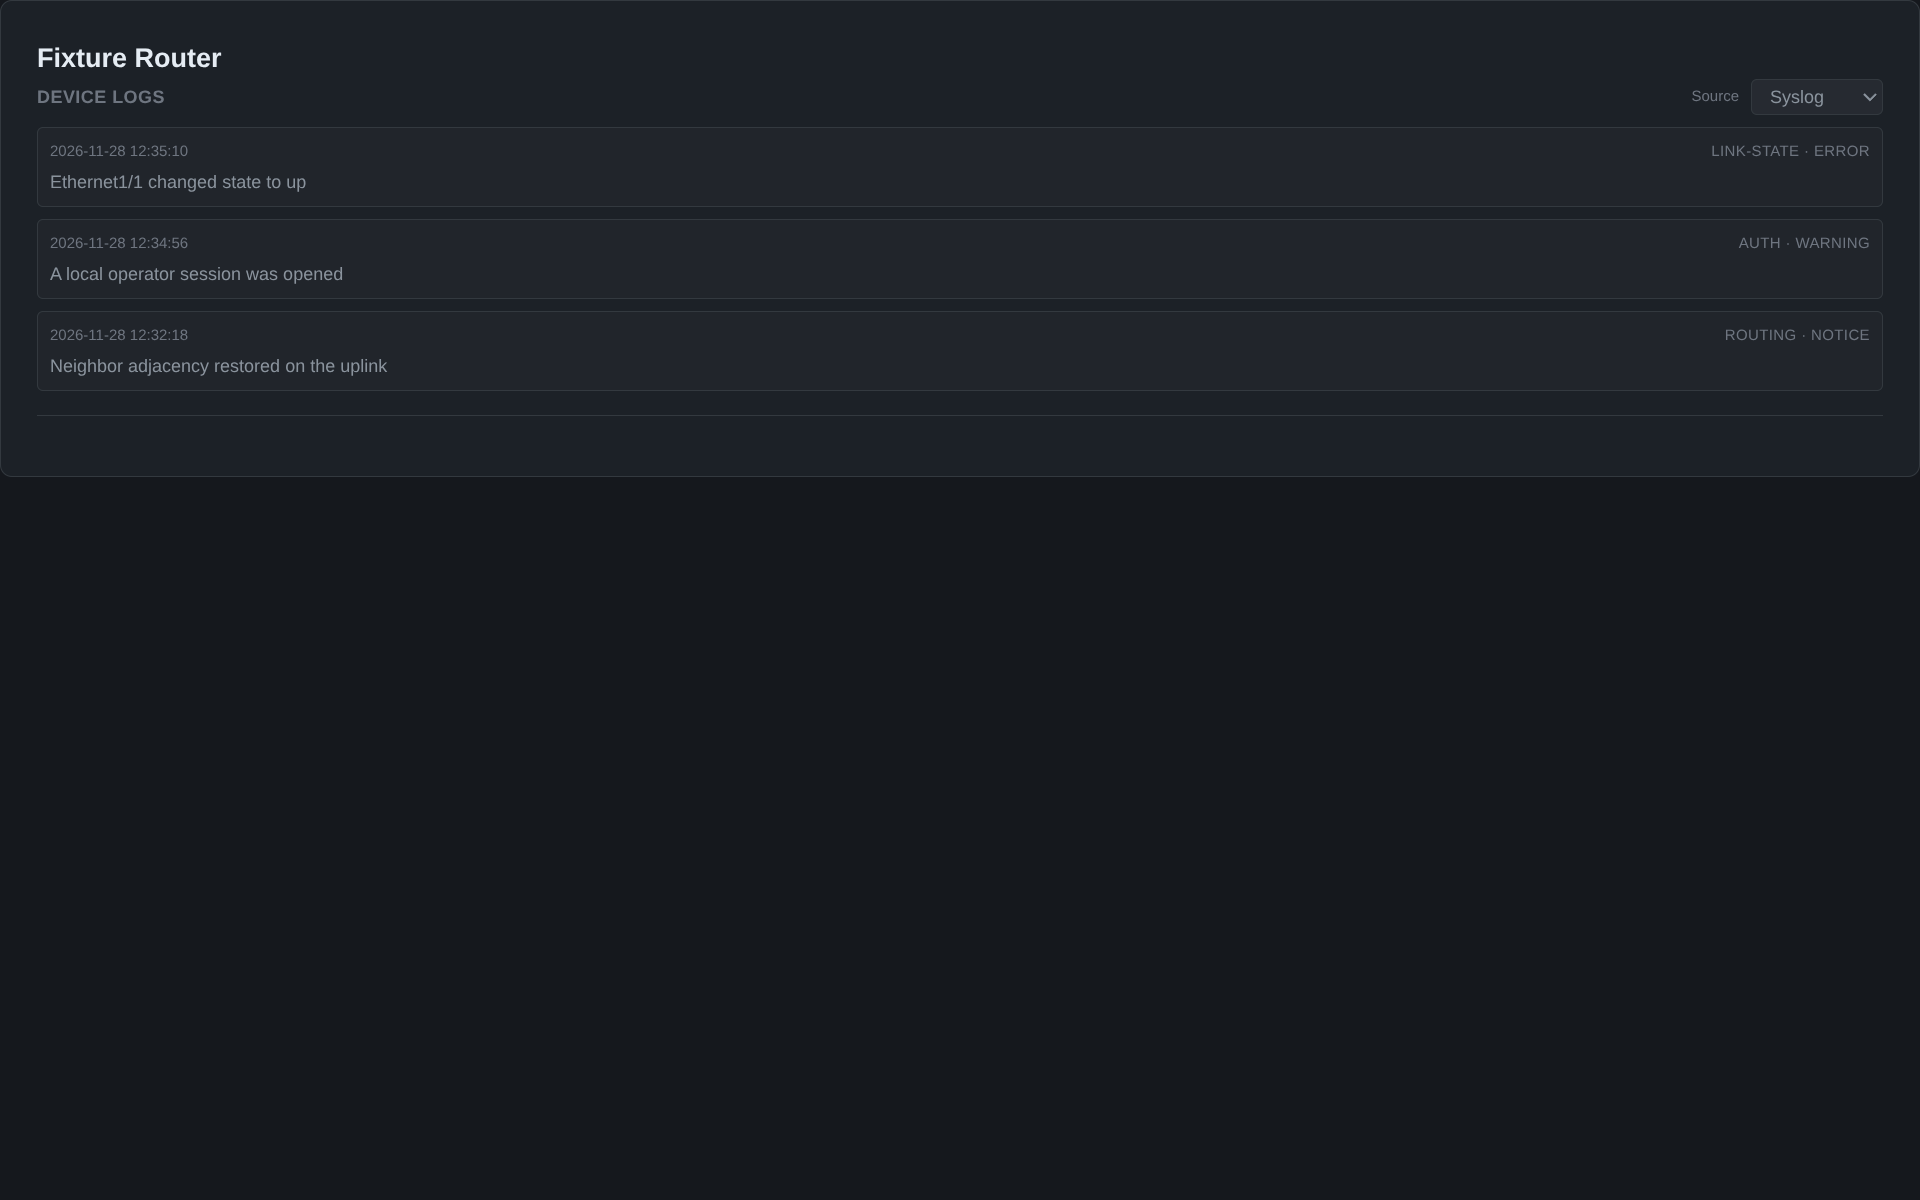
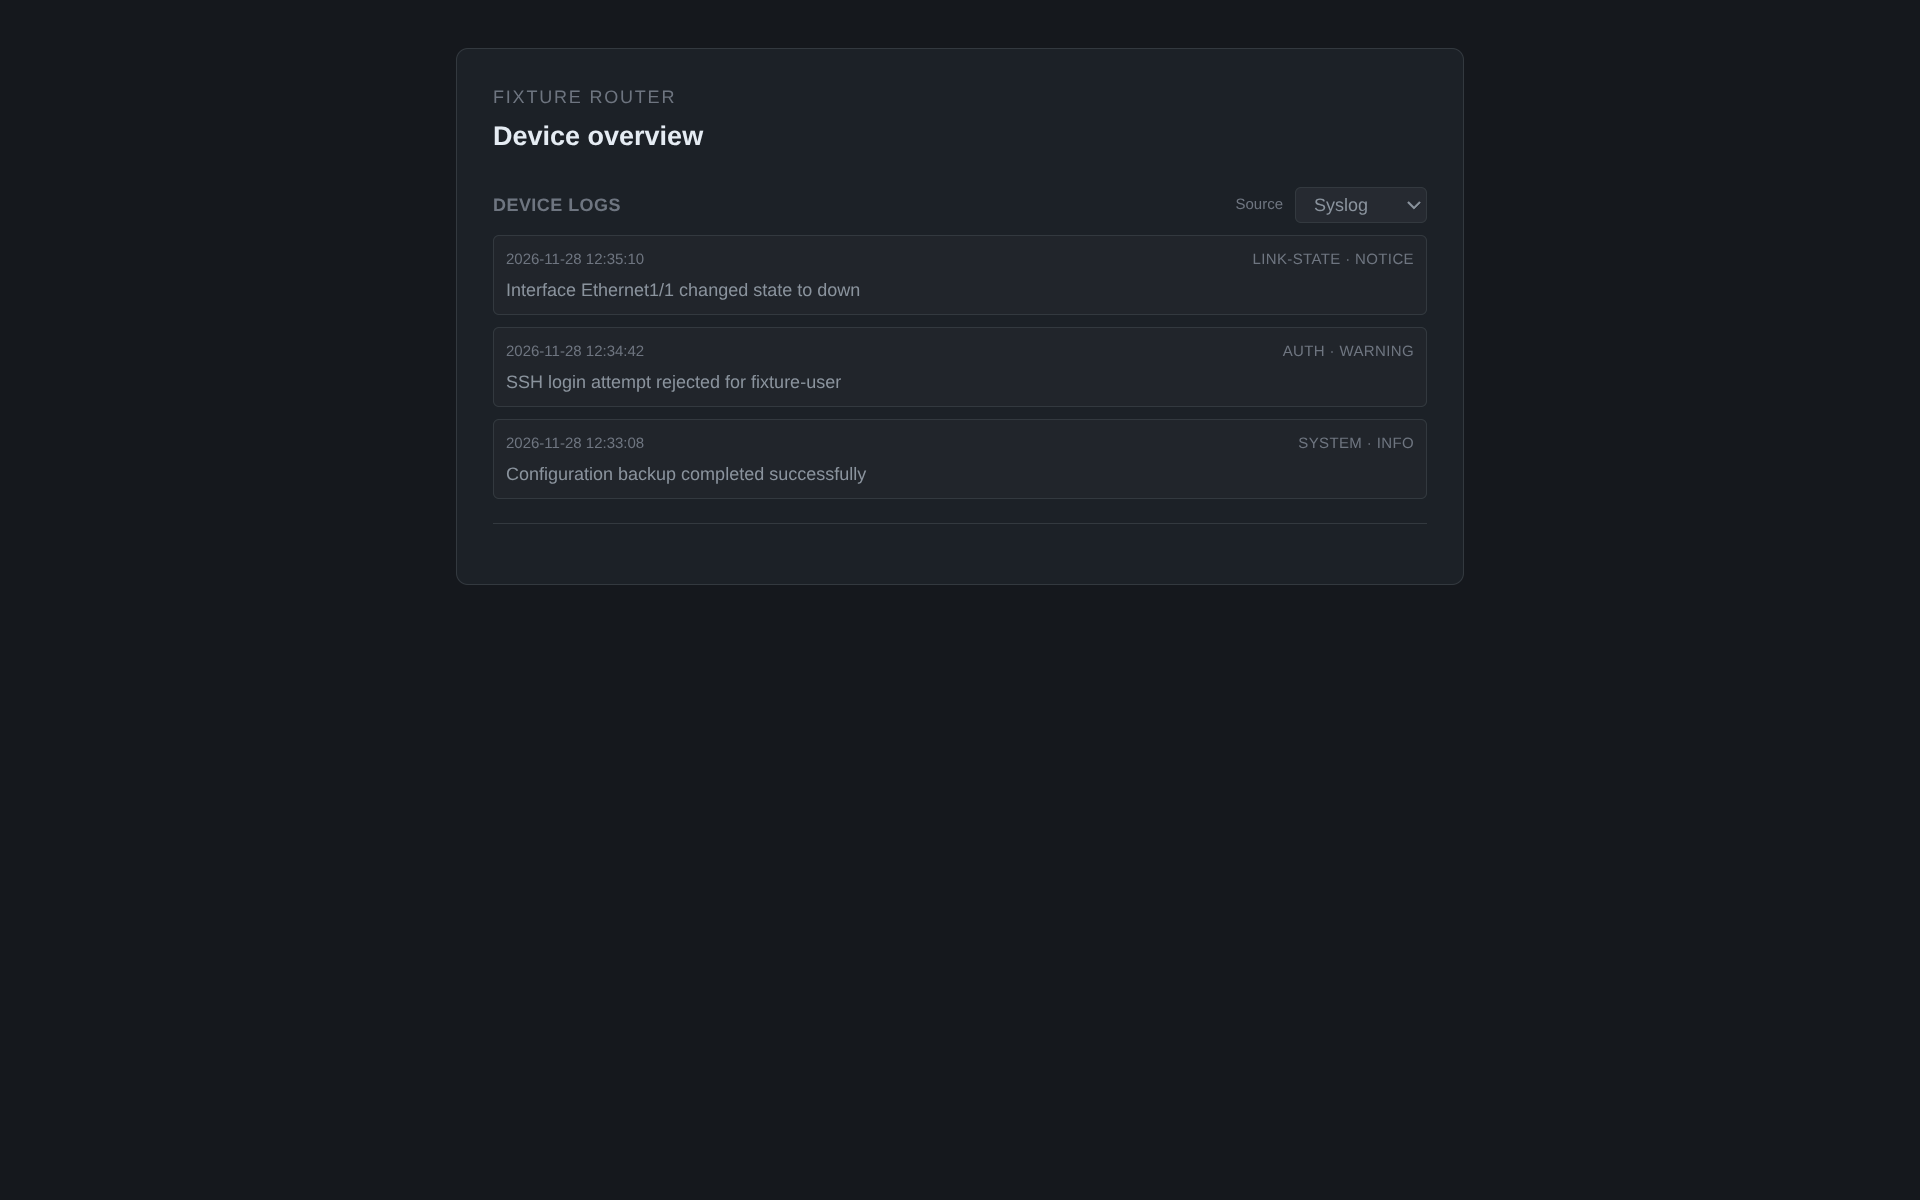
fix: normalize LibreNMS log severities

diff --git a/frontend/src/components/Sidebar/DeviceLogsPanel.tsx b/frontend/src/components/Sidebar/DeviceLogsPanel.tsx
@@ -16,19 +16,6 @@ export function DeviceLogMessage({ message }: { message: string }) {
   return <span className="whitespace-pre-wrap break-words">{message}</span>
 }
 
-export function formatSeverity(severity?: string | null): string | null {
-  if (!severity) return null
-  const labels: Record<string, string> = {
-    '1': 'Ok',
-    '2': 'Info',
-    '3': 'Notice',
-    '4': 'Warning',
-    '5': 'Error',
-    '6': 'Critical',
-  }
-  return labels[severity] ?? severity
-}
-
 export function selectDeviceLogKind(
   value: string,
   onChange: (kind: DeviceLogKind) => void,
@@ -74,7 +61,7 @@ export function DeviceLogsEntries({
           <div className="mb-1 flex flex-wrap items-center justify-between gap-x-2 text-[10px] text-text-muted">
             <span>{entry.timestamp}</span>
             <span className="uppercase tracking-wide">
-              {[entry.type, formatSeverity(entry.severity)]
+              {[entry.type, entry.severity]
                 .filter(Boolean)
                 .join(' · ') || 'Log entry'}
             </span>
@@ -118,6 +105,8 @@ export default function DeviceLogsPanel({ deviceId }: DeviceLogsPanelProps) {
   const [error, setError] = useState(false)
 
   useEffect(() => {
+    setEntries([])
+    setError(false)
     if (!expanded) return
 
     const controller = new AbortController()

diff --git a/frontend/src/components/Sidebar/DeviceLogsPanel.test.tsx b/frontend/src/components/Sidebar/DeviceLogsPanel.test.tsx
@@ -6,7 +6,6 @@ import {
   DeviceLogMessage,
   DeviceLogSourceSelector,
   DeviceLogsEntries,
-  formatSeverity,
   requestDeviceLogs,
   selectDeviceLogKind,
 } from './DeviceLogsPanel'
@@ -18,7 +17,7 @@ vi.mock('../../api/endpoints', () => ({
 const entry: DeviceLogEntry = {
   timestamp: '2026-11-28 12:34:56',
   type: 'syslog',
-  severity: '5',
+  severity: 'Error',
   message: 'Interface state changed',
 }
 
@@ -66,12 +65,6 @@ describe('DeviceLogsPanel', () => {
       50,
       expect.any(AbortSignal),
     )
-  })
-
-  it('maps LibreNMS severities to labels', () => {
-    expect(['1', '2', '3', '4', '5', '6'].map(formatSeverity)).toEqual([
-      'Ok', 'Info', 'Notice', 'Warning', 'Error', 'Critical',
-    ])
   })
 
   it('renders device supplied markup as escaped text', () => {

diff --git a/backend/tests/test_device_logs.py b/backend/tests/test_device_logs.py
@@ -62,35 +62,38 @@ async def _unknown_device(_device_id: str):
 
 
 async def test_librenms_client_normalizes_each_log_kind(monkeypatch):
+    event_labels = ["Unknown", "Ok", "Info", "Notice", "Warning", "Error", "Critical"]
+    syslog_labels = ["Emergency", "Alert", "Critical", "Error", "Warning", "Notice", "Info", "Debug"]
+    alert_labels = ["Ok", "Error", "Info", "Warning", "Notice", "Warning", "Ok"]
+    alert_states = ["clear", "alert", "ack", "worse", "better", "changed", "recovered"]
     fixtures = {
-        "eventlog": {
-            "datetime": "2026-11-28 12:34:56",
-            "type": "interface",
-            "severity": "3",
-            "message": "Ethernet1/1 changed state to down",
-        },
-        "syslog": {
-            "timestamp": "2026-11-28 12:35:10",
-            "program": "LINK-STATE",
-            "msg": "Ethernet1/1 changed state to up",
-            "level": "5",
-            "priority": "189",
-            "facility": "local7",
-            "tag": "router",
-        },
-        "alertlog": {
-            "time_logged": "2026-11-28 12:36:22",
-            "state": 1,
-            "details": "CPU threshold exceeded",
-            "rule_id": 42,
-        },
+        "eventlog": [
+            {"datetime": f"2026-11-28 12:34:{index:02}", "type": "interface", "severity": index, "message": "Ethernet1/1 changed state"}
+            for index in range(7)
+        ],
+        "syslog": [
+            {"timestamp": "2026-11-28 12:35:10", "program": "LINK-STATE", "msg": "Ethernet1/1 changed state", "level": index, "priority": 189}
+            for index in range(8)
+        ] + [
+            {"timestamp": "2026-11-28 12:35:11", "program": "LINK-STATE", "msg": "Link notice", "level": label}
+            for label in ("EMERG", "Alert", "crit", "ERR", "warn", "WARNING", "Notice", "info", "Debug")
+        ] + [
+            {"timestamp": "2026-11-28 12:35:12", "program": "LINK-STATE", "msg": "Fallback priority", "priority": 189}
+        ],
+        "alertlog": [
+            {"time_logged": f"2026-11-28 12:36:{state:02}", "state": state, "details": [], "rule_id": 42}
+            for state in range(7)
+        ] + [
+            {"time_logged": f"2026-11-28 12:37:{state:02}", "state": state, "details": {"rule": [{"name": "High CPU", "entities": ["cpu0", "cpu1"]}]}, "rule_id": 42}
+            for state in range(7)
+        ],
     }
     requests: list[httpx.Request] = []
 
     def handler(request: httpx.Request) -> httpx.Response:
         requests.append(request)
         kind = request.url.path.split("/")[4]
-        return httpx.Response(200, json={"status": "ok", "logs": [fixtures[kind]]})
+        return httpx.Response(200, json={"status": "ok", "logs": fixtures[kind]})
 
     _mock_librenms(monkeypatch, handler)
     async with LibreNMSClient() as client:
@@ -99,24 +102,19 @@ async def test_librenms_client_normalizes_each_log_kind(monkeypatch):
             for kind in fixtures
         }
 
-    assert normalized["eventlog"][0].model_dump() == {
-        "timestamp": "2026-11-28 12:34:56",
-        "type": "interface",
-        "severity": "3",
-        "message": "Ethernet1/1 changed state to down",
-    }
-    assert normalized["syslog"][0].model_dump() == {
-        "timestamp": "2026-11-28 12:35:10",
-        "type": "LINK-STATE",
-        "severity": "5",
-        "message": "Ethernet1/1 changed state to up",
-    }
-    assert normalized["alertlog"][0].model_dump() == {
-        "timestamp": "2026-11-28 12:36:22",
-        "type": None,
-        "severity": "1",
-        "message": "Rule 42: alert - CPU threshold exceeded",
-    }
+    assert [entry.severity for entry in normalized["eventlog"]] == event_labels
+    assert [entry.severity for entry in normalized["syslog"]] == syslog_labels + [
+        "Emergency", "Alert", "Critical", "Error", "Warning", "Warning", "Notice", "Info", "Debug", "Notice"
+    ]
+    assert [entry.severity for entry in normalized["alertlog"]] == alert_labels * 2
+    assert [entry.message for entry in normalized["alertlog"][:7]] == [
+        f"Rule 42: {state}" for state in alert_states
+    ]
+    assert [entry.message for entry in normalized["alertlog"][7:]] == [
+        f"Rule 42: {state} - High CPU (2 entities)" for state in alert_states
+    ]
+    assert normalized["eventlog"][0].timestamp == "2026-11-28 12:34:00"
+    assert normalized["syslog"][0].type == "LINK-STATE"
     assert len(requests) == 3
     assert all(request.method == "GET" for request in requests)
 
@@ -164,7 +162,7 @@ async def test_device_logs_use_descending_order_and_cache_results(
         {
             "timestamp": "2026-11-28 12:34:56",
             "type": "LINK-STATE",
-            "severity": "5",
+            "severity": "Notice",
             "message": "Ethernet1/1 changed state to down",
         }
     ]
@@ -284,6 +282,13 @@ async def test_device_logs_reject_invalid_kind(wired_redis_cache):
         )
 
     assert response.status_code == 422
+
+
+async def test_device_logs_require_authentication(wired_redis_cache):
+    async with AsyncClient(transport=ASGITransport(app=_app()), base_url="http://test") as client:
+        response = await client.get("/api/device/fixture-router/logs")
+
+    assert response.status_code == 401
 
 
 async def test_device_logs_return_404_for_unknown_device(wired_redis_cache, monkeypatch):

diff --git a/backend/app/polling/librenms.py b/backend/app/polling/librenms.py
@@ -234,6 +234,51 @@ class LibreNMSClient:
         if not isinstance(data, dict) or not isinstance(data.get("logs", []), list):
             raise ValueError("LibreNMS returned an invalid log response")
         normalized: list[DeviceLogEntry] = []
+        eventlog_severities = ("Unknown", "Ok", "Info", "Notice", "Warning", "Error", "Critical")
+        syslog_severities = ("Emergency", "Alert", "Critical", "Error", "Warning", "Notice", "Info", "Debug")
+        alert_states = ("clear", "alert", "ack", "worse", "better", "changed", "recovered")
+        alert_severities = ("Ok", "Error", "Info", "Warning", "Notice", "Warning", "Ok")
+        syslog_text_severities = {
+            "emerg": "Emergency", "alert": "Alert", "crit": "Critical", "err": "Error",
+            "warn": "Warning", "warning": "Warning", "notice": "Notice", "info": "Info", "debug": "Debug",
+        }
+
+        def numeric(value: object) -> int | None:
+            try:
+                return int(value)
+            except (TypeError, ValueError):
+                return None
+
+        def alert_details_summary(details: object) -> str:
+            if isinstance(details, str):
+                return details.strip()
+            if isinstance(details, list):
+                return ""
+            if not isinstance(details, dict):
+                return ""
+            rules = details.get("rule")
+            if not isinstance(rules, list):
+                rules = [rules] if rules else []
+            summaries: list[str] = []
+            for rule in rules:
+                if isinstance(rule, str):
+                    name = rule.strip()
+                    count = None
+                elif isinstance(rule, dict):
+                    name = str(rule.get("name") or rule.get("rule_name") or "").strip()
+                    entities = next(
+                        (rule[key] for key in ("entities", "entity", "devices", "ports") if key in rule),
+                        None,
+                    )
+                    count = len(entities) if isinstance(entities, (list, tuple, set)) else (1 if entities else None)
+                else:
+                    continue
+                if name and count is not None:
+                    summaries.append(f"{name} ({count} {'entity' if count == 1 else 'entities'})")
+                elif name:
+                    summaries.append(name)
+            return ", ".join(summaries)
+
         for entry in data.get("logs", []):
             if not isinstance(entry, dict):
                 continue
@@ -244,24 +289,30 @@ class LibreNMSClient:
                 or entry.get("time_logged")
                 or ""
             )
-            severity = next(
-                (
-                    entry[field]
-                    for field in ("severity", "level", "state")
-                    if entry.get(field) not in (None, "")
-                ),
-                None,
-            )
+            state = numeric(entry.get("state"))
+            if kind == "eventlog":
+                value = numeric(entry.get("severity"))
+                severity = eventlog_severities[value] if value is not None and 0 <= value < len(eventlog_severities) else "Unknown"
+            elif kind == "syslog":
+                raw_level = entry.get("level")
+                if raw_level in (None, ""):
+                    raw_level = entry.get("priority")
+                text_level = str(raw_level).strip().casefold() if raw_level is not None else ""
+                value = numeric(raw_level)
+                if value is not None:
+                    value = value % 8
+                    severity = syslog_severities[value]
+                else:
+                    severity = syslog_text_severities.get(text_level, "Unknown")
+            else:
+                severity = alert_severities[state] if state is not None and 0 <= state < len(alert_severities) else "Unknown"
             message = entry.get("message") or entry.get("msg")
 
             if kind == "alertlog" and not message:
-                state = str(entry.get("state", "unknown"))
-                state_label = {"0": "clear", "1": "alert", "2": "ack"}.get(
-                    state, f"state {state}"
-                )
+                state_label = alert_states[state] if state is not None and 0 <= state < len(alert_states) else "unknown"
                 rule_id = entry.get("rule_id")
                 message = f"Rule {rule_id}: {state_label}" if rule_id is not None else state_label
-                details = entry.get("details")
+                details = alert_details_summary(entry.get("details"))
                 if details:
                     message = f"{message} - {details}"
 
@@ -269,7 +320,7 @@ class LibreNMSClient:
                 DeviceLogEntry(
                     timestamp=str(timestamp),
                     type=entry.get("type") or entry.get("program"),
-                    severity=str(severity) if severity is not None else None,
+                    severity=severity,
                     message=str(message or ""),
                 )
             )

diff --git a/backend/app/routers/devices.py b/backend/app/routers/devices.py
@@ -79,12 +79,14 @@ async def get_device_logs(
     if device.librenms_device_id is None:
         raise HTTPException(status_code=502, detail="Device is not available in LibreNMS")
 
-    librenms_devices = await redis_cache.get_json(CACHE_DEVICES) or []
+    cached_devices = await redis_cache.get_json(CACHE_DEVICES)
+    librenms_devices = cached_devices if isinstance(cached_devices, list) else []
     librenms_device = next(
         (
             item
             for item in librenms_devices
-            if str(item.get("device_id")) == str(device.librenms_device_id)
+            if isinstance(item, dict)
+            and str(item.get("device_id")) == str(device.librenms_device_id)
         ),
         None,
     )
